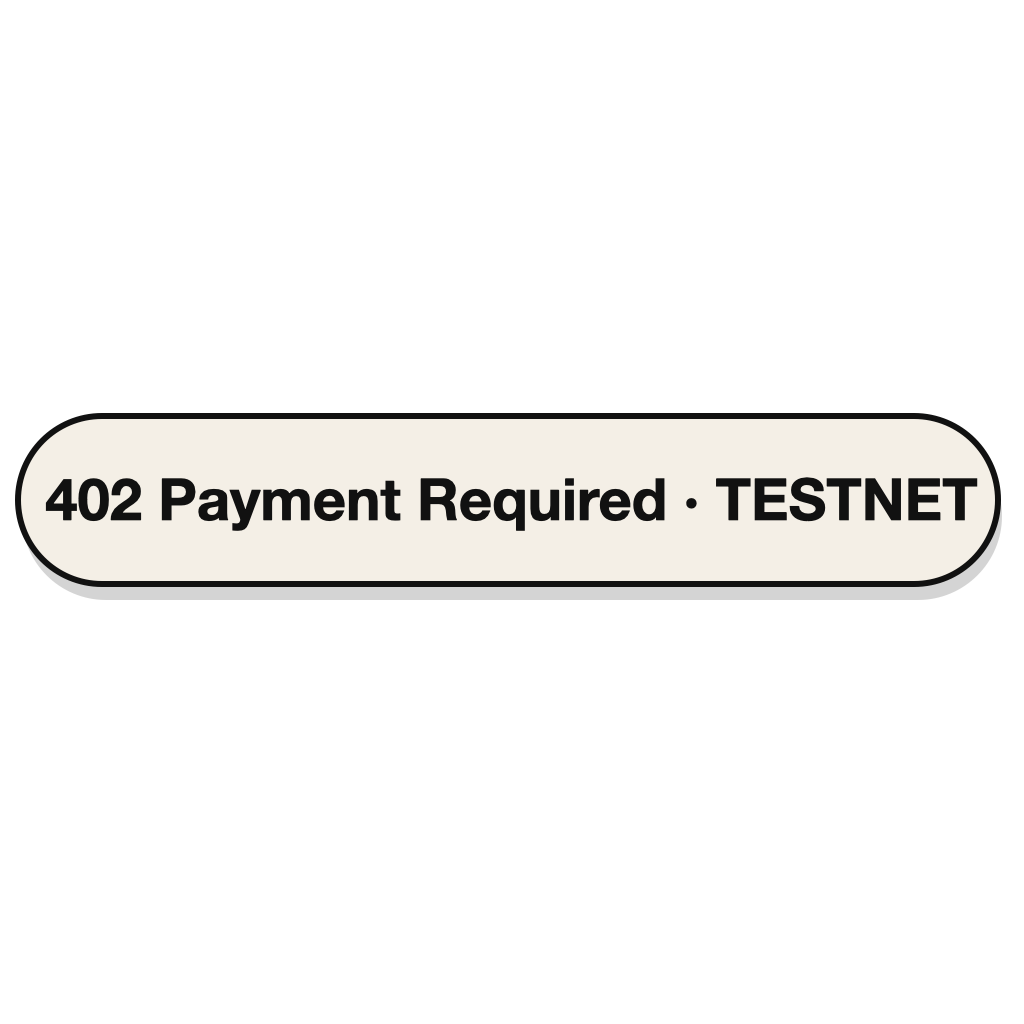
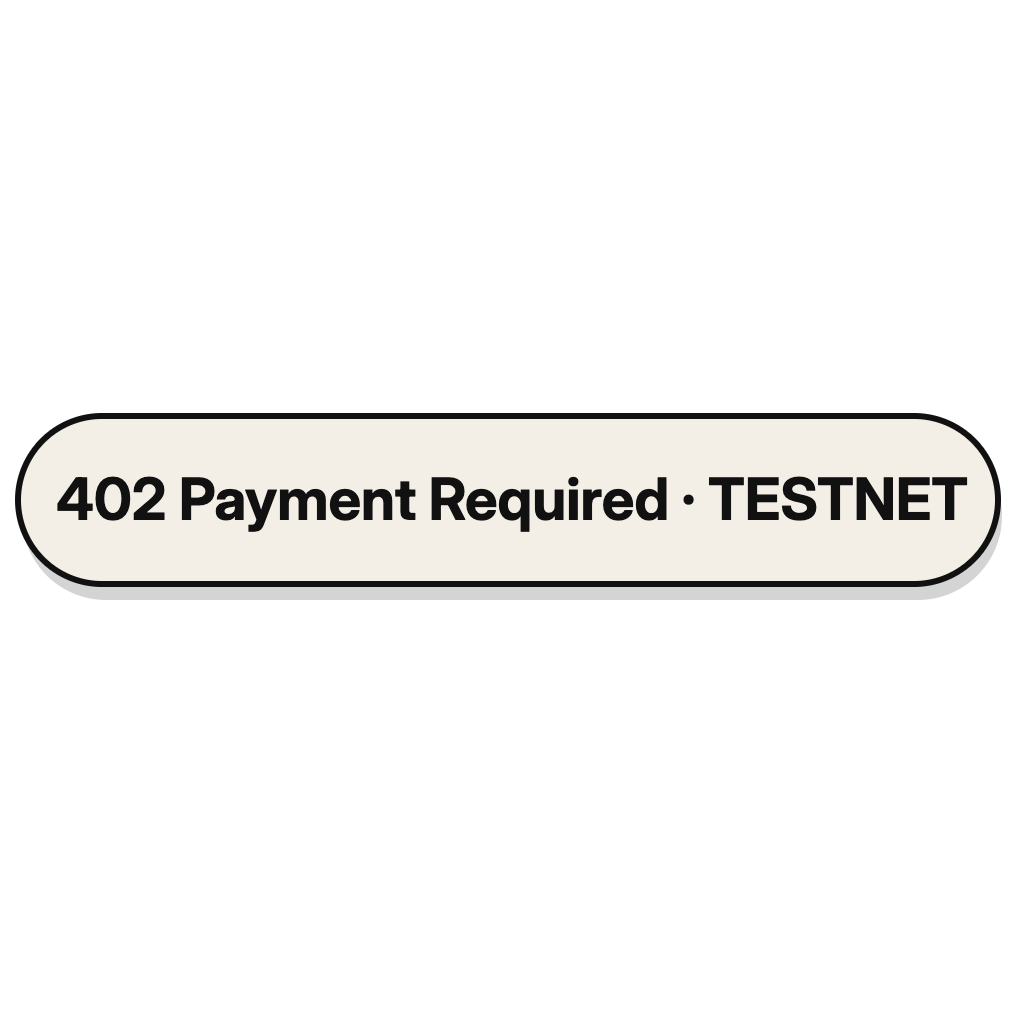
pitch video: stickers with real alpha (puppeteer), no ring on hook, C8 ring 33% width; preview re-rendered

Changed region(s): [[0.0312, 0.4688, 0.9688, 0.5312]]

diff --git a/pitch/video/edit/make_edit.py b/pitch/video/edit/make_edit.py
@@ -65,12 +65,11 @@ STK = {'answer-passed': (900, 204, 62, 410), 'answer-lab': (900, 204, 62, 410), 
        'arrow': (500, 500, 262, 262)}
 # pop-ups: (cut id or "END", src time (or seconds into end card), sticker, on-screen width, x, y, dur, alpha)
 POPS = [
-    ("C1", 45.25, "ring", 980, 50, 560, 3.8, 1.0),
     ("C3", 19.90, "pill", 300, 720, 330, 3.2, 1.0),
     ("C5", 56.00, "chip-box", 640, 60, 300, 7.2, 1.0),
     ("C5", 56.80, "chip-explains", 520, 480, 480, 6.4, 1.0),
     ("C6", 74.80, "arrow", 360, 640, 760, 2.6, 1.0),
-    ("C8", 104.30, "ring", 900, 90, 620, 3.2, 1.0),
+    ("C8", 104.30, "ring", 360, 410, 735, 3.2, 1.0),  # ≤35 % of frame width, round the dial on the laptop (≈590,870 at 1:45)
     ("C9", 112.60, "chip-unoq", 600, 240, 300, 6.0, 1.0),
     ("C11", 168.10, "answer-passed", 760, 160, 300, 4.6, 0.45),
     ("C11", 168.25, "answer-lab", 760, 160, 480, 4.45, 0.45),

diff --git a/pitch/video/EDIT-PLAN.md b/pitch/video/EDIT-PLAN.md
@@ -48,10 +48,10 @@ Hook first; then the problem in his words; the app and the box in the order he f
 2. Gemini timestamps are ±0.5 s: if a word is clipped, nudge that cut's `src` in `make_edit.py`.
 
 ## Effects per cut
-- **C1 J-cut + glow (the "This is Pill" moment):** his audio runs 0:44.30–0:49.10 throughout. Video: 0.9 s of him (graded) on "So what we built", then at "it's Pill" a straight cut to the station shot 2:05.10–2:08.03 slowed to 0.75× (`setpts=(PTS-STARTPTS)/0.75`, `fps=30`, no interpolation) = 3.9 s. On that shot: upscale to 2160×3840 → `zoompan` 1.00→1.30 over 3.3 s, then holds (slow push in), then `split` into three: base, a `gblur σ=34` copy tinted violet (`colorchannelmixer`) blended `screen` at 0.62 (the glow), and an `edgedetect` ink-line copy blended `multiply` at 0.35 (the cartoon outline); then `eq` contrast 1.14 / sat 1.30 and `vignette PI/3.2` (focus). Overlays: the hand-drawn ring sticker pops round the station at 0.95 s; the serif-italic **"Pill"** title (Instrument Serif, violet halo + paper outline, −4° tilt) pops 40→118→100 % on the cut at 0.90 s. Exits with a 0.25 s dip to white.
+- **C1 J-cut + glow (the "This is Pill" moment):** his audio runs 0:44.30–0:49.10 throughout. Video: 0.9 s of him (graded) on "So what we built", then at "it's Pill" a straight cut to the station shot 2:05.10–2:08.03 slowed to 0.75× (`setpts=(PTS-STARTPTS)/0.75`, `fps=30`, no interpolation) = 3.9 s. On that shot: upscale to 2160×3840 → `zoompan` 1.00→1.30 over 3.3 s, then holds (slow push in), then `split` into three: base, a `gblur σ=34` copy tinted violet (`colorchannelmixer`) blended `screen` at 0.62 (the glow), and an `edgedetect` ink-line copy blended `multiply` at 0.35 (the cartoon outline); then `eq` contrast 1.14 / sat 1.30 and `vignette PI/3.2` (focus). No ring on the hook (the glow, zoom and title carry it); the serif-italic **"Pill"** title (Instrument Serif, violet halo + paper outline, −4° tilt) pops 40→118→100 % on the cut at 0.90 s. Exits with a 0.25 s dip to white.
 - **grade** (all other cuts): `eq` contrast 1.05, saturation 1.10, gamma 1.04 (night footage lift).
 - **punch** (C4, C10): static 8 % punch-in, the "zoom cut" on the line that matters.
-- **Pop-ups** (`stickers/*.png`, spring-in: 70 px drop with a damped bounce + 0.12 s alpha fade, 0.18 s fade out): ring @0:00.95 (C1) · pill glyph @0:16.02 at "aspirin 81" (C3) · "The box measures." @0:27.21 then violet "Pill explains." @0:28.01 (C5, the website) · arrow at the water mark @0:41.03 (C6) · ring round the live curve @0:47.28 (C8) · "UNO Q · 1 line/s" @0:50.84 (C9) · the three answers stacked at "Unable to verify": "Passed the screen" @1:11.44 and "Needs lab testing" @1:11.59 dimmed to 45 %, "Unable to verify" @1:11.74 full and larger (C11, held into "So watch out") · end card pill @1:18.51 and "402 Payment Required · TESTNET" @1:19.11.
+- **Pop-ups** (`stickers/*.png`, spring-in: 70 px drop with a damped bounce + 0.12 s alpha fade, 0.18 s fade out): pill glyph @0:16.02 at "aspirin 81" (C3) · "The box measures." @0:27.21 then violet "Pill explains." @0:28.01 (C5, the website) · arrow at the water mark @0:41.03 (C6, 360 px) · ring round the timer dial on the laptop @0:47.28 (C8, 360 px = 33 % of the frame width) · "UNO Q · 1 line/s" @0:50.84 (C9) · the three answers stacked at "Unable to verify": "Passed the screen" @1:11.44 and "Needs lab testing" @1:11.59 dimmed to 45 %, "Unable to verify" @1:11.74 full and larger (C11, held into "So watch out") · end card pill @1:18.51 and "402 Payment Required · TESTNET" @1:19.11.
 - **Captions** (`captions.ass`, libass, burned in last): 2–3-word groups, centred at y=1150 (inside the Meta/TikTok safe area), Inter Bold 86 px ink on a paper sticker outline (13 px) with a soft shadow; each group pops in 82→106→100 %; the spoken word flips to white ink on a violet fill and pops to 116 % for 180 ms, then returns to ink-on-paper. "PILL" and "UNABLE TO VERIFY" switch to Instrument Serif Italic. Colour only in fills; words are black or white.
 
 ## Music
@@ -65,10 +65,10 @@ Paper background `#F4EFE6` · pill glyph · "The box measures. Pill explains." (
 
 ## Assets (`pitch/video/edit/`)
 - `make_edit.py`: the one source of truth (cut list, captions, pop-ups) → generates the four files below
-- `build.sh` (`--preview` 0–10 s, `--check` dry run) and `graph.txt` (the filter_complex: 12 cut inputs + the hook's hardware input via `-ss/-t`, J-cut concat + glow chain, xfade/acrossfade ladder, 12 overlays with `enable='between(t,…)'`, `ass` burn-in, ducked score, loudnorm)
+- `build.sh` (`--preview` 0–10 s, `--check` dry run) and `graph.txt` (the filter_complex: 12 cut inputs + the hook's hardware input via `-ss/-t`, J-cut concat + glow chain, xfade/acrossfade ladder, 11 overlays with `enable='between(t,…)'`, `ass` burn-in, ducked score, loudnorm)
 - `captions.ass` (75 word-pop events + hook title + end card text), `captions.srt` (24 sentence cues for YouTube/Devpost upload)
 - `fonts/`: Inter (variable) and Instrument Serif Regular + Italic TTFs from github.com/google/fonts (OFL)
-- `stickers/`: SVG sources + 1024² PNGs from `qlmanage` (alpha): pill, ring, arrow, the three answer chips, 402 chip, UNO Q chip, "The box measures." / "Pill explains."
+- `stickers/`: SVG sources + 1024² RGBA PNGs with transparent backgrounds, rendered by `render_stickers.mjs` (puppeteer-core from `pitch/film/node_modules`, `omitBackground`, the bundled fonts): pill, ring, arrow, the three answer chips, 402 chip, UNO Q chip, "The box measures." / "Pill explains."
 - `transcribe.sh`: the Gemini Files API transcription script
 - `bin/ffmpeg` (gitignored): static ffmpeg 9.0.2 with libass from ffmpeg.martin-riedl.de, because Homebrew's ffmpeg 8.1.2 has no `ass`/`subtitles` filter. `build.sh` fetches it again if it's missing.
 
